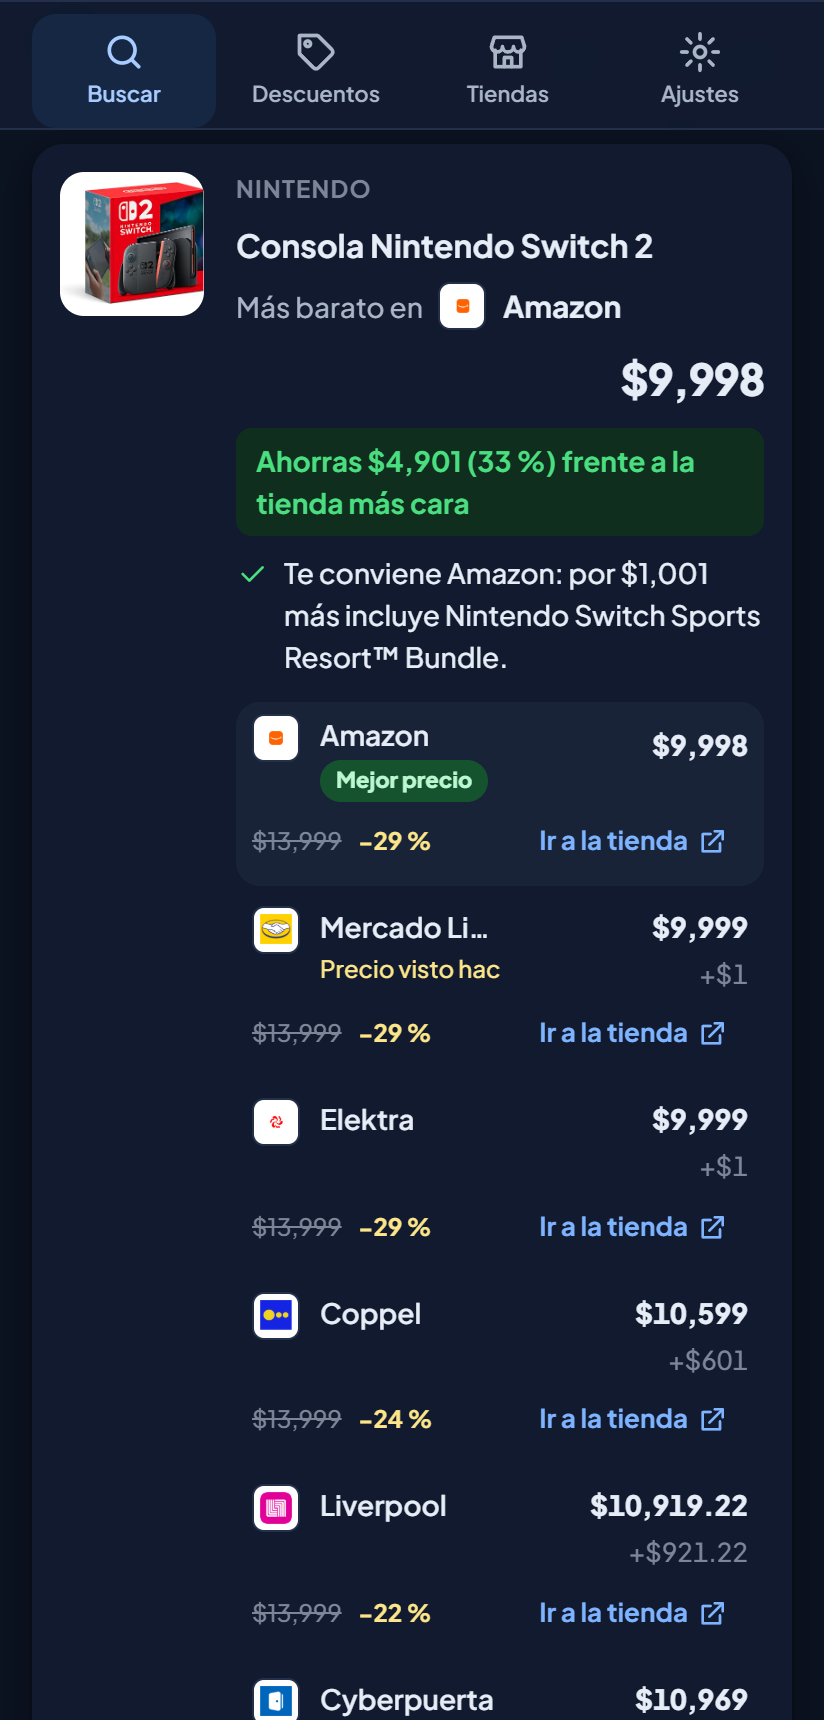
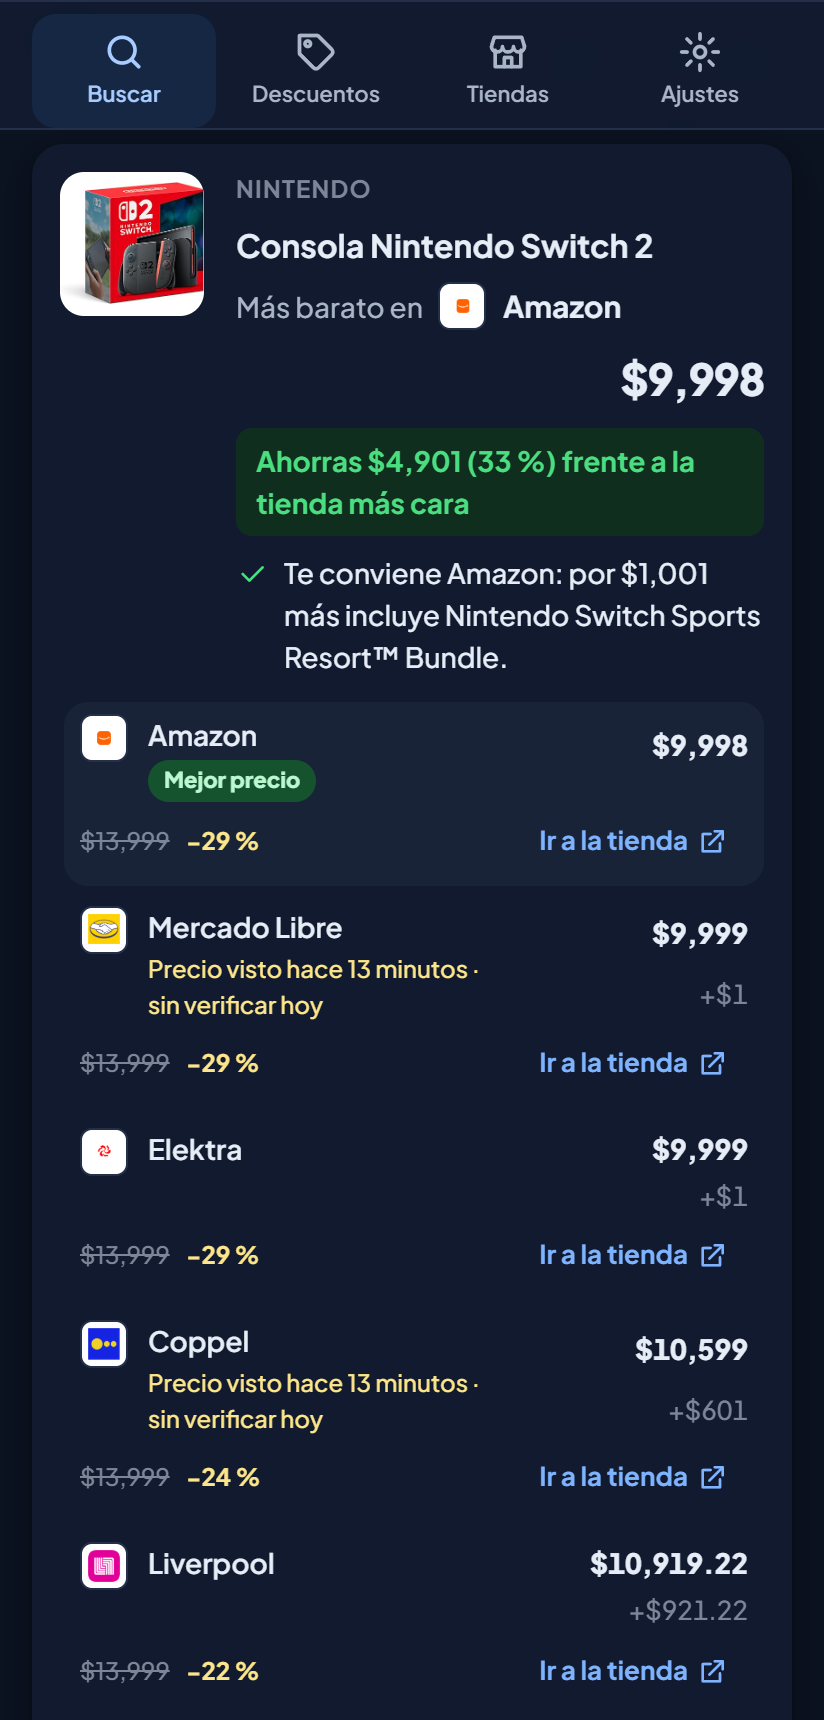
Web: en el celular la lista de tiendas usa todo el ancho de la tarjeta; nombres y notas completos

diff --git a/web/src/styles/app.css b/web/src/styles/app.css
@@ -891,13 +891,6 @@
     grid-area: store;
     align-self: start;
   }
-  /* En pantalla angosta el nombre de la tienda y la nota "precio visto hace…" se parten en renglones; nunca se cortan. */
-  .offer__name,
-  .offer__stale {
-    white-space: normal;
-    overflow: visible;
-    text-overflow: clip;
-  }
   .offer__price {
     grid-area: price;
   }
@@ -2162,6 +2155,20 @@ a.deal__link:hover {
 @media (max-width: 640px) {
   .chart__hint {
     display: none;
+  }
+  /* En el celular la foto solo acompaña al título: la lista de tiendas, los botones y el historial
+     salen de la columna de la foto y usan todo el ancho de la tarjeta (72 px de foto + 14 px de separación). */
+  .card__body > .offers,
+  .card__body > .card__actions,
+  .card__body > .history {
+    margin-left: calc(-72px - 14px);
+  }
+  /* El nombre de la tienda y la nota "precio visto hace…" se parten en renglones; nunca se cortan. */
+  .offer__name,
+  .offer__stale {
+    white-space: normal;
+    overflow: visible;
+    text-overflow: clip;
   }
 }
 .chart__tip--right {
